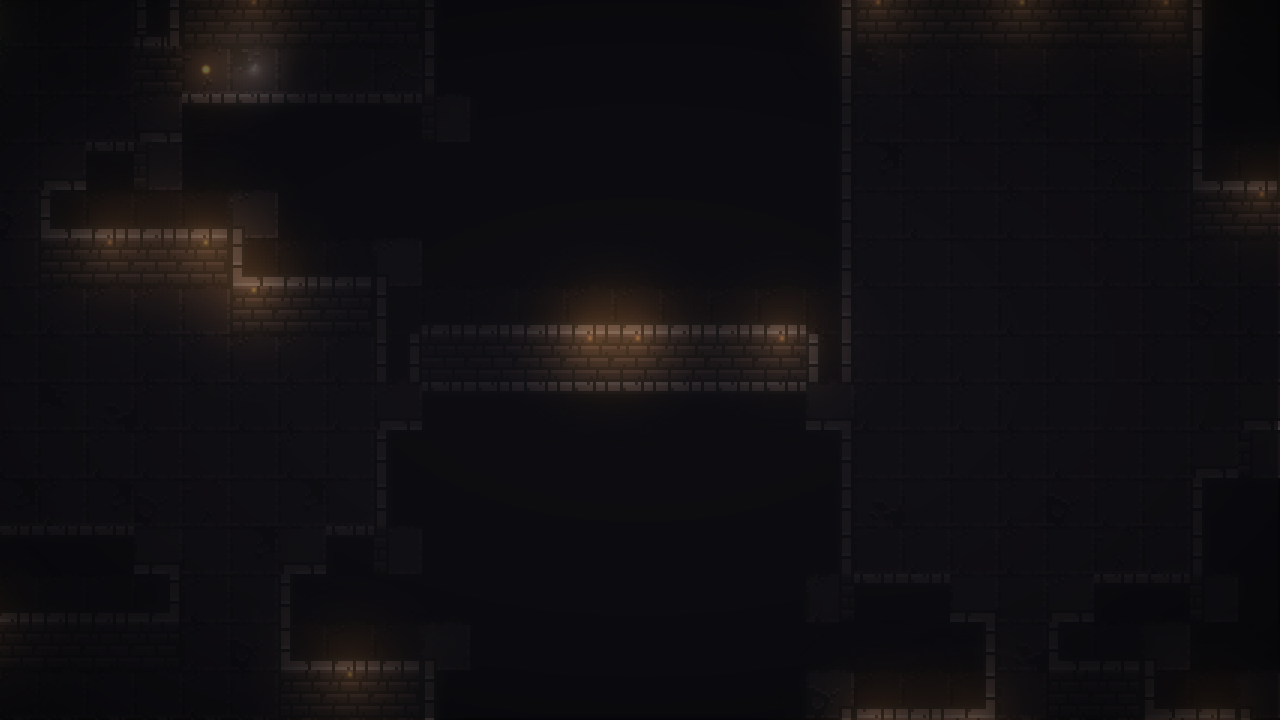
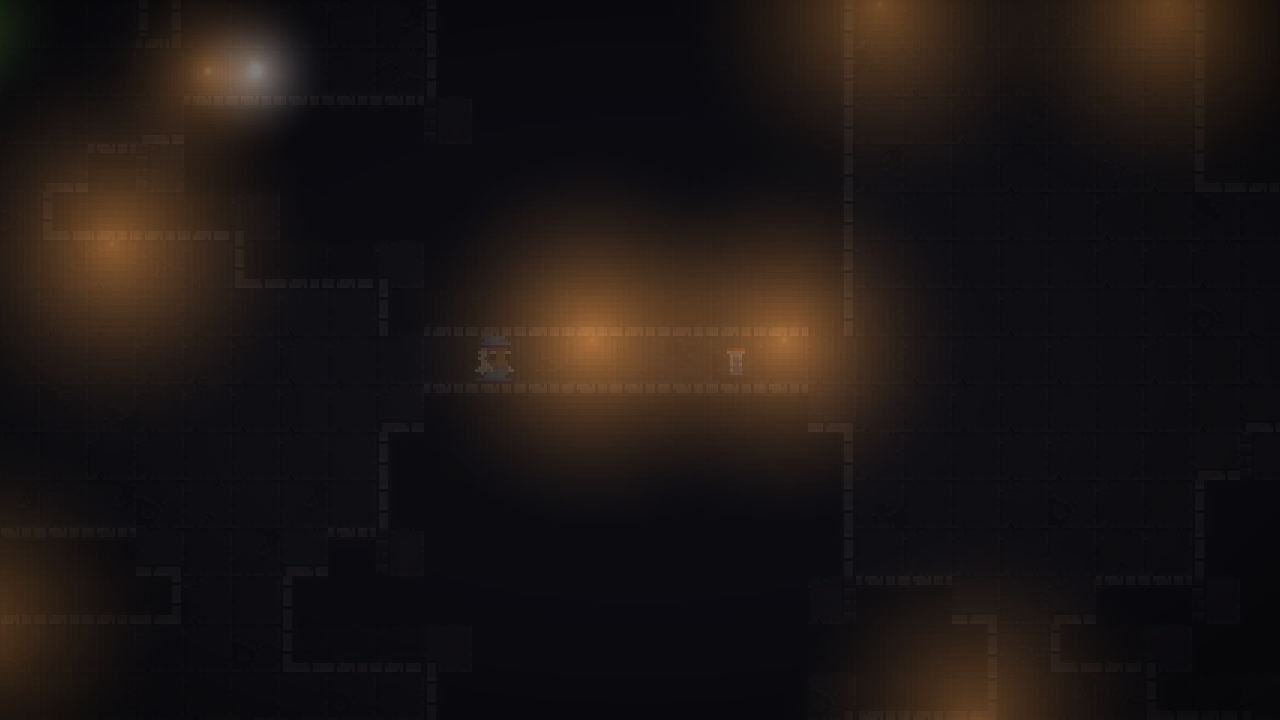
Fix localhost lag: bake chunk terrain to textures; rework lighting
Measured baseline: 9.4 avg FPS (min 4.3) with 16,933 live GameObjects
— per-tile sprites across ~12 resident chunks, plus a darkness
RenderTexture doing full-screen fill+erase every frame (constant 'GPU
stall due to ReadPixels' warnings).

Terrain: chunks now draw once into transient containers that are
flattened into static RenderTextures (one base sheet + one strip per
occluder row, overhang-padded) and destroyed — a chunk is a handful
of textures instead of thousands of objects. 16,933 -> ~550 objects.

Lighting (user directive: brighter, fewer): torch spacing 5 -> 10
(~1/4 density), pool alpha 0.3 -> 0.9, radius 2.6 -> 4.2 tiles;
active lights capped at 12 nearest THE CAMERA VIEW CENTER (first cap
attempt anchored to the player and starved off-player views — caught
via probe: 0 in-view lights). Darkness is now a plain ambient rect
with the additive pool rendering ABOVE it — the RT-erase and
inverted-BitmapMask hole techniques both proved fragile alongside
hundreds of baked terrain textures; additive pools over dark stone
read equivalently and cannot fail. ReadPixels stalls eliminated.

Headless (software GL) result: 9.4 -> 30 FPS; real GPUs should pin 60.
Also: ?debug=1 dev-only game hook, vite/client tsconfig types,
spacing test made tuning-agnostic. 425 tests green.

diff --git a/packages/client/src/render/terrain/chunkVisual.ts b/packages/client/src/render/terrain/chunkVisual.ts
@@ -1,27 +1,53 @@
-// Builds/destroys one chunk's base terrain and per-row occluder containers.
+// Builds/destroys one chunk's terrain, BAKED: tiles draw once into transient
+// containers which are flattened into static RenderTextures (one base sheet +
+// one strip per occluder row), then destroyed. A chunk costs a handful of
+// textures instead of thousands of live GameObjects — the difference between
+// 9 fps and a real frame rate at 20k tiles resident.
 import { CHUNK_SIZE } from "@dc2d/engine";
 import type { TerrainWorld } from "./terrainWorld.js";
 import type Phaser from "phaser";
+import { SCREEN_TILE_PX } from "../../boot/assetManifest.js";
 import { BASE_TERRAIN_DEPTH, depthForOccluder } from "../entities/depthSort.js";
 import { drawTile } from "./drawTile.js";
 import { buildStructureMap, drawDoor } from "./structures.js";
 
+/** Rows above an occluder row its sprites may overhang (caps at wy-1, lintels/pillars up to wy-2). */
+const ROW_OVERHANG_TILES = 2;
+const CHUNK_PX = CHUNK_SIZE * SCREEN_TILE_PX;
+
 export interface ChunkVisual {
   readonly cx: number;
   readonly cy: number;
-  readonly below: Phaser.GameObjects.Container;
-  readonly occluders: readonly Phaser.GameObjects.Container[];
+  readonly below: Phaser.GameObjects.RenderTexture;
+  readonly occluders: readonly Phaser.GameObjects.RenderTexture[];
 }
 
-/** Generates one base container plus row-sorted wall/structure containers. */
+/** Flattens `container` (children at absolute world positions) into a static RT anchored at (originX, originY). */
+function bake(
+  scene: Phaser.Scene,
+  container: Phaser.GameObjects.Container,
+  originX: number,
+  originY: number,
+  width: number,
+  height: number,
+  depth: number,
+): Phaser.GameObjects.RenderTexture {
+  const rt = scene.add.renderTexture(originX, originY, width, height).setOrigin(0, 0).setDepth(depth);
+  container.setPosition(-originX, -originY);
+  rt.draw(container);
+  container.destroy(true);
+  return rt;
+}
+
+/** Generates chunk (cx, cy), draws every tile + structure, and bakes the result into static textures. */
 export function buildChunkVisual(scene: Phaser.Scene, world: TerrainWorld, cx: number, cy: number): ChunkVisual {
-  const below = scene.add.container(0, 0).setDepth(BASE_TERRAIN_DEPTH);
-  const occluders = new Map<number, Phaser.GameObjects.Container>();
+  const below = scene.add.container(0, 0);
+  const rows = new Map<number, Phaser.GameObjects.Container>();
   const occluderFor = (wy: number): Phaser.GameObjects.Container => {
-    let row = occluders.get(wy);
+    let row = rows.get(wy);
     if (!row) {
-      row = scene.add.container(0, 0).setDepth(depthForOccluder(wy + 1));
-      occluders.set(wy, row);
+      row = scene.add.container(0, 0);
+      rows.set(wy, row);
     }
     return row;
   };
@@ -41,10 +67,32 @@ export function buildChunkVisual(scene: Phaser.Scene, world: TerrainWorld, cx: n
     }
   }
   for (const door of structures.doors) drawDoor(scene, occluderFor(door.wy), door);
-  return { cx, cy, below, occluders: [...occluders.values()] };
+
+  const originX = baseX * SCREEN_TILE_PX;
+  const bakedBelow = bake(scene, below, originX, baseY * SCREEN_TILE_PX, CHUNK_PX, CHUNK_PX, BASE_TERRAIN_DEPTH);
+  return { cx, cy, below: bakedBelow, occluders: bakeRows(scene, rows, originX) };
+}
+
+/** Bakes each non-empty occluder row into a strip RT tall enough for its sprite overhang. */
+function bakeRows(
+  scene: Phaser.Scene,
+  rows: ReadonlyMap<number, Phaser.GameObjects.Container>,
+  originX: number,
+): Phaser.GameObjects.RenderTexture[] {
+  const baked: Phaser.GameObjects.RenderTexture[] = [];
+  for (const [wy, row] of rows) {
+    if (row.list.length === 0) {
+      row.destroy(true);
+      continue;
+    }
+    const stripTop = (wy - ROW_OVERHANG_TILES) * SCREEN_TILE_PX;
+    const stripHeight = (ROW_OVERHANG_TILES + 1) * SCREEN_TILE_PX;
+    baked.push(bake(scene, row, originX, stripTop, CHUNK_PX, stripHeight, depthForOccluder(wy + 1)));
+  }
+  return baked;
 }
 
 export function destroyChunkVisual(visual: ChunkVisual): void {
-  visual.below.destroy(true);
-  for (const row of visual.occluders) row.destroy(true);
+  visual.below.destroy();
+  for (const row of visual.occluders) row.destroy();
 }

diff --git a/packages/client/src/render/lighting/darkness.ts b/packages/client/src/render/lighting/darkness.ts
@@ -1,55 +1,37 @@
-// Darkness overlay: one camera-sized RenderTexture, refilled to near-black ambient each
-// frame and punched with soft holes at every active light — VISUAL_DIRECTION's "darkness
-// is the canvas" rule made literal. Erase positions are screen-space (viewport-fixed
-// overlay), so it never needs to track the camera's own scroll transform itself.
-import type Phaser from "phaser";
-import { ASSET_KEYS, SCREEN_TILE_PX } from "../../boot/assetManifest.js";
-import { flickerScale, type LightSource } from "./lightSource.js";
+// Darkness overlay: one full-screen ambient-dark rectangle. Lights do NOT punch
+// holes in it — the additive glow pool renders ABOVE this rect, so lit areas are
+// warm additive pools over dark stone. No RenderTextures, no masks: the two
+// techniques tried before (per-frame RT erase, inverted BitmapMask) both proved
+// fragile alongside many baked-terrain RTs, and this one cannot fail.
+import Phaser from "phaser";
 
 const DARKNESS_DEPTH = 300_000;
 /** The doc's near-black void hex. */
 const DARKNESS_COLOR = 0x14141c;
 /** Ambient ≈ 1 - this alpha, landing in VISUAL_DIRECTION's 15-25% band. */
 const DARKNESS_ALPHA = 0.78;
-const LIGHT_FRAME = "light_soft";
-const LIGHT_SOURCE_PX = 64;
 
 export class DarknessOverlay {
-  private readonly texture: Phaser.GameObjects.RenderTexture;
-  private readonly brush: Phaser.GameObjects.Image;
+  private readonly rect: Phaser.GameObjects.Rectangle;
 
   constructor(private readonly scene: Phaser.Scene) {
     const cam = scene.cameras.main;
-    this.texture = scene.add
-      .renderTexture(0, 0, cam.width, cam.height)
+    this.rect = scene.add
+      .rectangle(0, 0, cam.width, cam.height, DARKNESS_COLOR, DARKNESS_ALPHA)
       .setOrigin(0, 0)
       .setScrollFactor(0)
       .setDepth(DARKNESS_DEPTH);
-    this.brush = scene.make.image({ key: ASSET_KEYS.atlas, frame: LIGHT_FRAME, add: false });
   }
 
-  /** Refills the overlay to ambient darkness, then erases a soft hole per light at its current screen position. */
-  redraw(lights: readonly LightSource[], nowMs: number): void {
+  /** Tracks viewport size; the glow pool (above this rect) owns everything light-shaped. */
+  redraw(): void {
     const cam = this.scene.cameras.main;
-    if (this.texture.width !== cam.width || this.texture.height !== cam.height) {
-      this.texture.setSize(cam.width, cam.height);
+    if (this.rect.width !== cam.width || this.rect.height !== cam.height) {
+      this.rect.setSize(cam.width, cam.height);
     }
-    this.texture.clear();
-    this.texture.fill(DARKNESS_COLOR, DARKNESS_ALPHA);
-    for (const light of lights) this.eraseHole(light, cam, nowMs);
-  }
-
-  /** World -> overlay-screen-space, honoring zoom (worldView is already the zoom-adjusted visible rect). */
-  private eraseHole(light: LightSource, cam: Phaser.Cameras.Scene2D.Camera, nowMs: number): void {
-    const screenX = (light.x * SCREEN_TILE_PX - cam.worldView.x) * cam.zoom;
-    const screenY = (light.y * SCREEN_TILE_PX - cam.worldView.y) * cam.zoom;
-    const scale = ((light.radiusTiles * 2 * SCREEN_TILE_PX) / LIGHT_SOURCE_PX) * flickerScale(nowMs, light.seed) * cam.zoom;
-    this.brush.setScale(scale);
-    this.texture.erase(this.brush, screenX, screenY);
   }
 
   dispose(): void {
-    this.texture.destroy();
-    this.brush.destroy();
+    this.rect.destroy();
   }
 }

diff --git a/packages/client/src/render/lighting/index.ts b/packages/client/src/render/lighting/index.ts
@@ -3,6 +3,7 @@
 // any externally supplied accent lights (fire/poison/steam areas from vfx/).
 import { CHUNK_SIZE, type World } from "@dc2d/engine";
 import type Phaser from "phaser";
+import { SCREEN_TILE_PX } from "../../boot/assetManifest.js";
 import { chunkKey, desiredChunks, diffChunks, type ChunkCoord, type ViewRect } from "../terrain/streaming.js";
 import { DarknessOverlay } from "./darkness.js";
 import { doorLightPositions } from "./doorLights.js";
@@ -12,8 +13,10 @@ import { LightSpritePool } from "./pool.js";
 import { selectTorchPositions, torchCandidates, type TilePos } from "./torchPlacement.js";
 
 const LOAD_MARGIN_CHUNKS = 1;
+/** Hard cap on lights composited per frame — nearest win; the personal light always survives. */
+const MAX_ACTIVE_LIGHTS = 12;
 const TORCH_COLOR = 0xff9e3d;
-const TORCH_RADIUS_TILES = 2.6;
+const TORCH_RADIUS_TILES = 4.2;
 const PORTAL_COLOR = 0x3dd6c3;
 const PORTAL_RADIUS_TILES = 3;
 const PERSONAL_COLOR = 0xfff0d2;
@@ -58,9 +61,18 @@ export class LightingSystem {
       kind: "personal",
       seed: 0,
     };
-    const all = [...this.chunkLights.values()].flat().concat(this.accentLights, personal);
+    // Cap anchors to what the CAMERA sees, never the personal anchor — a scene
+    // viewed away from the player (gallery, spectate) must still keep its lights.
+    const centerTileX = (view.x + view.width / 2) / SCREEN_TILE_PX;
+    const centerTileY = (view.y + view.height / 2) / SCREEN_TILE_PX;
+    const candidates = [...this.chunkLights.values()].flat().concat(this.accentLights);
+    candidates.sort(
+      (a, b) =>
+        Math.hypot(a.x - centerTileX, a.y - centerTileY) - Math.hypot(b.x - centerTileX, b.y - centerTileY),
+    );
+    const all = candidates.slice(0, MAX_ACTIVE_LIGHTS - 1).concat(personal);
     this.pool.sync(all, nowMs);
-    this.darkness.redraw(all, nowMs);
+    this.darkness.redraw();
   }
 
   /** Torch positions currently resident — vfx flame particles key off this list. */

diff --git a/packages/client/src/render/lighting/torchPlacement.test.ts b/packages/client/src/render/lighting/torchPlacement.test.ts
@@ -2,7 +2,7 @@
 // hand-built grid (no engine World needed — faces.ts's TerrainRead is structural).
 import { TILE } from "@dc2d/engine";
 import { describe, expect, it } from "vitest";
-import { selectTorchPositions, torchCandidates } from "./torchPlacement.js";
+import { selectTorchPositions, TORCH_SPACING_TILES, torchCandidates } from "./torchPlacement.js";
 
 /** A 1-row-thick horizontal corridor: wall at y=1 fronting floor at y=2, for x in [x0,x1). */
 function corridorWorld(x0: number, x1: number) {
@@ -29,8 +29,10 @@ describe("torchCandidates", () => {
 
 describe("selectTorchPositions", () => {
   it("spaces a long run of candidates into multiple, non-adjacent torches", () => {
-    const world = corridorWorld(59, 69);
-    const picked = selectTorchPositions(torchCandidates(world, 0, 0, 80, 4));
+    // Run spans 3 spacing buckets, so at least 3 torches regardless of the tuning value.
+    const runStart = TORCH_SPACING_TILES;
+    const world = corridorWorld(runStart, runStart + TORCH_SPACING_TILES * 3);
+    const picked = selectTorchPositions(torchCandidates(world, 0, 0, runStart + TORCH_SPACING_TILES * 4, 4));
     expect(picked.length).toBeGreaterThanOrEqual(3);
     const xs = [...picked.map((p) => p.wx)].sort((a, b) => a - b);
     for (let i = 1; i < xs.length; i++) {

diff --git a/packages/client/src/main.ts b/packages/client/src/main.ts
@@ -29,7 +29,7 @@ if (isEditor) {
   // reconnect never loses the in-flight session (net/connection.ts owns its own
   // reconnect-with-backoff; the scenes only react to its onConnected callback).
   const conn = new Connection(resolveWsUrl(window.location), loadStoredName(), persistentClientId());
-  new Phaser.Game({
+  const game = new Phaser.Game({
     type: Phaser.AUTO,
     parent: "app",
     width: 1280,
@@ -40,4 +40,9 @@ if (isEditor) {
     scale: { mode: Phaser.Scale.RESIZE },
     scene: [PreloadScene, new TitleScene(conn), new DungeonScene(conn), GalleryScene, HudScene],
   });
+  // Perf/debug introspection, dev-server only (never in a production build):
+  // ?debug=1 exposes the game for FPS/display-list probes (tools + manual tuning).
+  if (import.meta.env.DEV && new URLSearchParams(window.location.search).get("debug") === "1") {
+    (window as unknown as { __game: Phaser.Game }).__game = game;
+  }
 }

diff --git a/packages/client/src/render/lighting/pool.ts b/packages/client/src/render/lighting/pool.ts
@@ -6,9 +6,9 @@ import { flickerAlpha, flickerScale, type LightSource } from "./lightSource.js";
 
 const LIGHT_FRAME = "light_soft";
 const LIGHT_SOURCE_PX = 64;
-const LIGHT_POOL_DEPTH = 200_000;
+const LIGHT_POOL_DEPTH = 400_000; // above the darkness rect: additive pools ARE the lit areas
 /** Kept modest (not a bright opaque wash) — darkness's erase already restores full natural brightness within the hole; this layer only adds the color cast, so it never flattens an entity's silhouette when a light sits right on top of one. */
-const BASE_ALPHA = 0.3;
+const BASE_ALPHA = 0.9;
 
 export class LightSpritePool {
   private readonly sprites = new Map<string, Phaser.GameObjects.Sprite>();

diff --git a/packages/client/src/render/lighting/torchPlacement.ts b/packages/client/src/render/lighting/torchPlacement.ts
@@ -11,7 +11,7 @@ export interface TilePos {
 }
 
 /** Grid-bucket size in tiles — big enough that torch pools read as distinct "islands of firelight", not one continuous glow. */
-const TORCH_SPACING_TILES = 5;
+export const TORCH_SPACING_TILES = 10;
 
 /** Small multiplicative hash, deterministic for identical (wx, wy) every run. */
 function hash2(wx: number, wy: number): number {